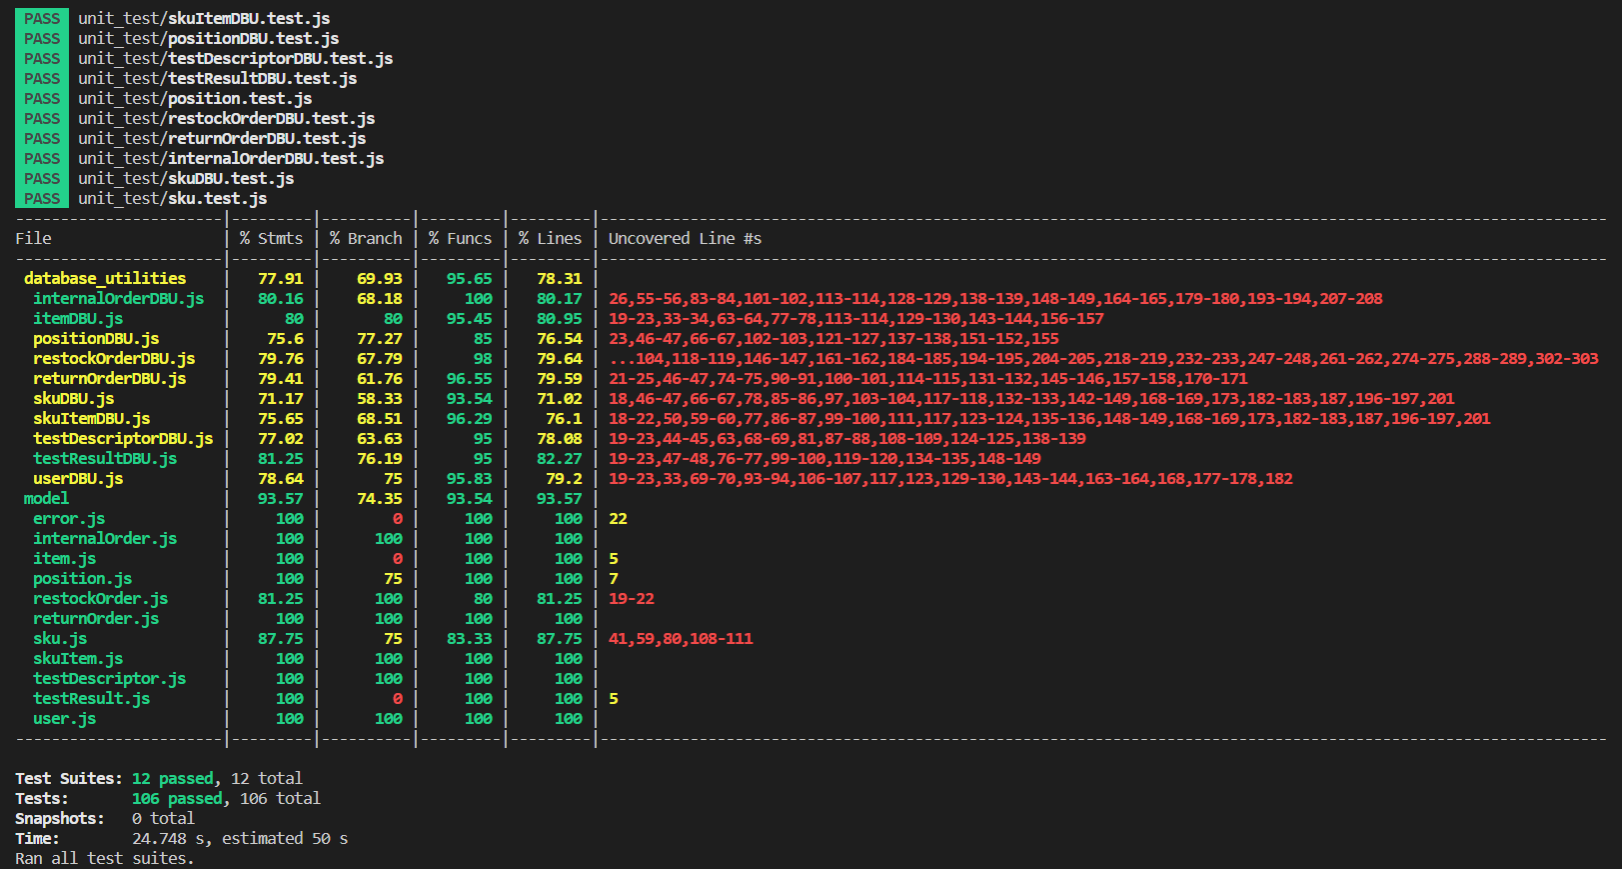
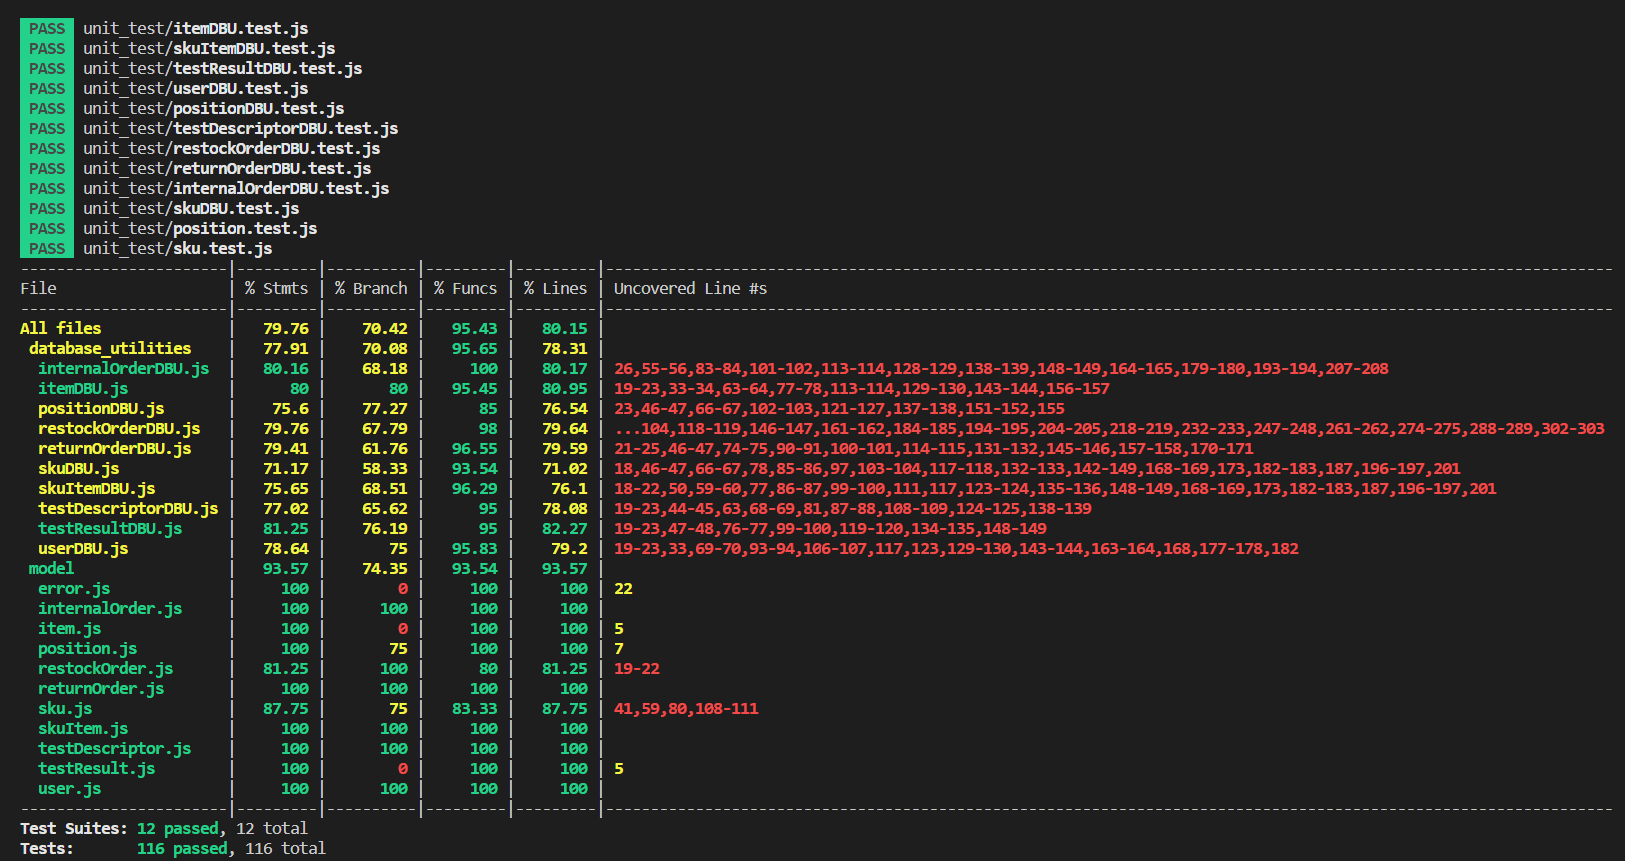
Complete unit testing report

Changed region(s): [[0.0, 0.0, 0.9864, 0.9965]]

diff --git a/code/server/unit_test/skuItemDBU.test.js b/code/server/unit_test/skuItemDBU.test.js
@@ -26,7 +26,6 @@ describe('Load SkuItem ',() => {
     testLoadSkuitem(db);
 })
 
-//ITEM needs to be uploaded to the db by databaseetup like marco did 
 function testLoadSkuitem(db){
     test('Retrieve all SkuItems',async () => {
         var res = await db.loadSKUitem()
@@ -45,11 +44,61 @@ function testLoadSkuitem(db){
         var res = await db.loadSKUitem(undefined, 2);
 
         expect(res.length).to.equal(2);
+    });
+    test('Try the load with both parameters' , async () => {
+        var res = await db.loadSKUitem('123', 2);
+
+        expect(res[0].RFID).to.equal('123');
+        expect(res[0].SKUId).to.equal(1);
+        expect(res[0].Available).to.equal(0);
+        expect(res[0].DateOfStock).to.equal('2022/04/04');
     }); 
     test('Try Clean' , async () => {
         var res = await db.loadSKUitem('123');
 
         expect(res[0].clean(['RFID']).RFID).to.be.undefined;
+    }); 
+}
+
+describe('Load SkuItem - not found ',() => {
+    //at the start
+    beforeAll(async () => {
+        //clear DB
+        await dbSet.resetTable();
+    });
+    //at the end of all tests in this file
+    afterAll(async () => {
+        //clear DB at the end
+        await dbSet.resetTable();
+    });
+
+    const db = new SkuitemDBU('ezwh.db');
+    
+    testLoadSkuitemEmpty(db);
+})
+
+function testLoadSkuitemEmpty(db){
+    test('Retrieve all SkuItems - not found',async () => {
+        var res = await db.loadSKUitem()
+        
+        expect(res.length).to.equal(0);
+    });
+    test('Retrieve SkuItem by rfid - not found' , async () => {
+        var res = await db.loadSKUitem('123');
+
+        expect(res.length).to.equal(0);
+    }); 
+    test('Retrieve SkuItem by SKUid - not found' , async () => {
+        try {
+            await db.loadSKUitem(undefined, 2);
+        } catch (err) {
+            expect(err.message).to.equal("Provided id does not match any SKU");
+        }
+    });
+    test('Try the load with both parameters - not found' , async () => {
+        var res = await db.loadSKUitem('123', 2);
+
+        expect(res.length).to.equal(0);
     }); 
 }
 

diff --git a/code/server/unit_test/testResultDBU.test.js b/code/server/unit_test/testResultDBU.test.js
@@ -2,6 +2,9 @@
 
 const { expect } = require('chai');
 const dbSet = require('./dataBaseSetUp');
+const chai = require('chai');
+const chaiAsPromised = require('chai-as-promised');
+chai.use(chaiAsPromised);
 
 const TestResultDBU = require('../database_utilities/testResultDBU');
 
@@ -25,12 +28,12 @@ describe('Load Test Result', () => {
 });
 
 function testGetTestResult(db) {
-    test('retrive a TestResult bi RFID', async () => {
+    test('retrieve a TestResult bi RFID', async () => {
         var res = await db.loadTestResult(456);
         expect(res.length).to.equal(2); //shoudl return 2 TestResult
     });
 
-    test('retrive a TestResult by RFID and TestDescriptorId', async () => {
+    test('retrieve a TestResult by RFID and TestDescriptorId', async () => {
         var res = await db.loadTestResult(123,1);
 
         expect(res[0].idTestDescriptor).to.equal(1);
@@ -85,6 +88,17 @@ function testUpdateTestResult(db) {
         expect(res[0].idTestDescriptor).to.equal(2);
         expect(res[0].Date).to.equal('2022/04/05');
         expect(res[0].Result).to.equal(true);
+    });
+    test('Update an existing Test Result - testDescriptor not found', async () => {
+        expect(db.updateTestResult(789,2,999,'2022/04/05','Pass')).to.eventually.be.rejected;
+    });
+    test('Update an existing Test Result - RFID not found', async () => {
+        expect(db.updateTestResult('999',2,999,'2022/04/05','Pass')).to.eventually.be.rejected;
+    });
+    test('Update an existing Test Result - testResult not found', async () => {
+        const res = await db.updateTestResult(789,9,2,'2022/04/05','Pass');
+
+        expect(res).to.equal(0);
     });
 }
 

diff --git a/code/server/unit_test/restockOrderDBU.test.js b/code/server/unit_test/restockOrderDBU.test.js
@@ -28,12 +28,12 @@ describe('Load Restock Order', () => {
 });
 
 function testGetRestockOrder(db) {
-    test('retrive all RestockOrder', async () => {
+    test('retrieve all RestockOrder', async () => {
         var res = await db.loadRestockOrder();
         expect(res.length).to.equal(2); //shoudl return 2 RestockOrder
     });
 
-    test('retrive a RestockOrder by Id', async () => {
+    test('retrieve a RestockOrder by Id', async () => {
         var res = await db.loadRestockOrder(1);
 
         expect(res[0].issueDate).to.equal('2022/04/04');
@@ -45,8 +45,12 @@ function testGetRestockOrder(db) {
         expect(res[0].skuItems[0].SKUId).to.equal(1);
         expect(res[0].skuItems[0].rfid).to.equal('123');
     });
+    test('retrieve a RestockOrder by Id - restock order does not exist', async () => {
+        var res = await db.loadRestockOrder(999);
+        expect(res.body).to.equal(undefined);
+    });
 
-    test('retrive RestockOrder by State', async () => {
+    test('retrieve RestockOrder by State', async () => {
         var res = await db.loadRestockOrder(undefined, 'ISSUED');
 
         expect(res[0].issueDate).to.equal('2022/04/04');
@@ -59,7 +63,7 @@ function testGetRestockOrder(db) {
         expect(res[0].skuItems[0].rfid).to.equal('123');
     });
 
-    test('retrive item to return', async () => {
+    test('retrieve item to return', async () => {
         var res = await db.selectReturnItems(1);
 
         expect(res[0].SKUId).to.equal(1);

diff --git a/code/server/unit_test/userDBU.test.js b/code/server/unit_test/userDBU.test.js
@@ -2,6 +2,9 @@
 
 const { expect } = require('chai');
 const dbSet = require('./dataBaseSetUp');
+const chai = require('chai');
+const chaiAsPromised = require('chai-as-promised');
+chai.use(chaiAsPromised);
 
 const userDBU = require('../database_utilities/userDBU');
 
@@ -97,6 +100,10 @@ function testInsertUser(db){
         expect(res[0].email).to.equal('test@ezwh.com');
         expect(res[0].type).to.equal('customer');
     });
+    test('Insert user - already present', async() =>{
+        expect(db.insertUser('test@ezwh.com', 'testName', 'testSurname', '1234', 'customer')).to.eventually.be.rejected;
+
+    });
     test('Insert new role for already registered username', async() =>{
         await db.insertUser('user1@ezwh.com', 'testName', 'testSurname', '1234', 'supplier'); 
 
@@ -107,13 +114,6 @@ function testInsertUser(db){
         expect(res[0].surname).to.equal('testSurname');
         expect(res[0].email).to.equal('user1@ezwh.com');
         expect(res[0].type).to.equal('supplier');
-    });
-    test('user already present', async() =>{
-        try {
-            await db.insertUser('manager1@ezwh.com', 'testName', 'testSurname', '1234', 'manager');
-        } catch(err) {
-            expect(err.message).to.equal('User already exists.');
-        }
     });
 }
 

diff --git a/code/server/database_utilities/testDescriptorDBU.js b/code/server/database_utilities/testDescriptorDBU.js
@@ -95,7 +95,7 @@ class TestDescriptorDBU {
     }
 
 // delete one or more TestDescriptor from the TEST-DESCRIPTORS table given different input. Return number of rows modified
-    async deleteTestDescriptor(testId=undefined) { 
+    async deleteTestDescriptor(testId) { 
         const dependency = await this.#checkDependency(testId);
         if (dependency) {
             // if there is at least 1 dependency

diff --git a/code/server/unit_test/testDescriptorDBU.test.js b/code/server/unit_test/testDescriptorDBU.test.js
@@ -97,7 +97,10 @@ function testDeleteTestDescriptor(db){
             expect(err.message).to.equal("Dependency detected. Delete aborted.");
         }
     });
-
+    test('Delete Test Descriptor - descriptor not found' , async () => {
+        const deleted = await db.deleteTestDescriptor(99);
+        expect(deleted).to.equal(0);
+    });
 }
 
 

diff --git a/UnitTestReport.md b/UnitTestReport.md
@@ -1,10 +1,10 @@
 # Unit Testing Report
 
-Date: 23/05/2022
+Date: 24/05/2022
 
-Version: 1.0
+Version: 1.2
 
-# Contents
+# Contents 
 
 - [Note about unit testing](#note-about-unit-testing)
 - [Black Box Unit Tests](#black-box-unit-tests)
@@ -15,62 +15,119 @@ Since all `model` classes have few to none logic, we never test them explicitly 
 For this reason, we consider as "independent units" - although they are not actually independent - `Position` and all `database_utilities` classes **but** `SkuDBU` and `PositionDBU`.
 
 # Black Box Unit Tests
+We report here the criteria we followed to perform black box testing on `database_utilities` classes (since `model` classes have no logic, as already noticed).  
+Since all `database_utilities` classes have basically the same internal structure (a load, an insert, an update and a delete), we decided to report here a single analysis for each category, for the sake of brevity.  
+In particular, we tried to focus on some special cases, characterized by a slightly more complex logic with respect to the other ones.
 
-    <Define here criteria, predicates and the combination of predicates for each function of each class.
-    Define test cases to cover all equivalence classes and boundary conditions.
-    In the table, report the description of the black box test case and (traceability) the correspondence with the Jest test case writing the 
-    class and method name that contains the test case>
-    <Jest tests  must be in code/server/unit_test  >
+ ### **Class *SkuItemDBU* - method *loadSKUitem***
 
- ### **Class *SKU* - method *constructor***
+**Criteria for method *loadSKUitem*:**
+
+ - RFID
+ - skuId
+ - The requested SKUitems are in the database
+
+**Predicates for method *loadSKUitem*:**
+
+| Criteria                        | Predicate |
+|---------------------------------|-----------|
+| RFID                            | Is undefined   |
+|                                 | Is not undefined   |
+| skuId                           | Is undefined   |
+|                                 | Is not undefined   |
+| Requested SKUitems are in database | Yes |
+|                                            | No  |
+
+**Combination of predicates**:
+
+| RFID | skuId | Requested SKUitems are in database| Valid / Invalid | Description of the test case | Jest test case       |
+|----|----|----|----|-----|-----|
+| Is undefined |  Is undefined | Yes | Valid | T1( ) -> true | `Retrieve all SkuItems` |
+| Is not undefined |  Is undefined | Yes | Valid | T2(existingRFIDinDB, undefined) -> true | `Retrieve SkuItem by rfid` |
+| Is undefined |  Is not undefined | Yes | Valid | T3(undefined, existingSkuIdInDB) -> true | `Retrieve SkuItem by SKUid` |
+| Is not undefined |  Is not undefined | Yes | Valid | T4(existingRFIDinDB, notCare) -> true | `Try the load with both parameters` |
+| Is undefined |  Is undefined | No | Valid | T5( ) -> true | `Retrieve all SkuItems - not found` |
+| Is not undefined |  Is undefined | No | Valid | T6(existingRFIDinDB, undefined) -> true | `Retrieve SkuItem by rfid - not found` |
+| Is undefined |  Is not undefined | No | Invalid | T7(undefined, existingSkuIdInDB) -> false | `Retrieve SkuItem by SKUid - not found` |
+| Is not undefined |  Is not undefined | No | Valid | T8(existingRFIDinDB, notCare) -> true | `Try the load with both parameters - not found` |
+
+Notice that case 4 behaves exactly as case 2: the RFID is more important than the skuId, which in this case is simply ignored.
 
 
+### **Class *UserDBU* - method *insertUser***
 
-**Criteria for method *name*:**
-	
+**Criteria for method *insertUser*:**
 
- - 
- - 
+ - User with unique pair (username, type) in database
 
+**Predicates for method *insertUser*:**
 
+| Criteria                        | Predicate |
+|---------------------------------|-----------|
+| User with unique pair (username, type) is in database         | Yes       |
+|                                 | No        |
 
+**Combination of predicates**:
 
-
-**Predicates for method *name*:**
-
-| Criteria | Predicate |
-| -------- | --------- |
-|          |           |
-|          |           |
-|          |           |
-|          |           |
-
-
+| User with unique pair (username, type) is in database | Valid / Invalid | Description of the test case  | Jest test case            |
+|-------------------------|---------------------------------|-----------------|-------------------------------|
+| Yes | Valid | T1(validUser) -> true |`Insert user`|
+| No | Invalid | T2(invalidUser) -> false |`Insert user - already present`|
 
 
+### **Class *TestResultDBU* - method *updateTestResult***
 
-**Boundaries**:
+**Criteria for method *updateTestResult*:**
 
-| Criteria | Boundary values |
-| -------- | --------------- |
-|          |                 |
-|          |                 |
+ - SKUitem TestResult refers to is in database
+ - TestResult to be modified is in database
+ - TestDescriptor is in database
 
+**Predicates for method *updateTestResult*:**
+
+| Criteria                        | Predicate |
+|---------------------------------|-----------|
+| SKUitem TestResult refers to is in database | Yes |
+| | No |
+| TestResult to be modified is in database | Yes |
+|  | No |
+| TestDescriptor is in database | Yes |
+| | No |
+
+**Combination of predicates**:
+
+| SKUitem TestResult refers to is in database | TestResult to be modified is in database | TestDescriptor is in database | Valid / Invalid | Description of the test case  | Jest test case            |
+|-----------|--------------|----------------|-----------------|-----------------|-------------------------------|
+| Yes | Yes | Yes | Valid | T1(validResult) -> true | `Update an existing Test Result` |
+| Yes | Yes | No | Invalid | T2(invalidResult) -> false | `Update an existing Test Result - testDescriptor not found` |
+| No | No | Not Care | Invalid | T3(invalidResult) -> false | `Update an existing Test Result - RFID not found` |
+| Yes | No | Yes | Valid | T4(validResult) -> true | `Update an existing Test Result - testResult not found` |
+
+### **Class *TestDescriptorDBU* - method *deleteTestDescriptor***
+
+**Criteria for method *deleteTestDescriptor*:**
+
+ - TestDescriptor is in database
+ - No other entries depend on TestDescriptor
+
+
+**Predicates for method *deleteTestDescriptor*:**
+
+| Criteria                        | Predicate |
+|---------------------------------|-----------|
+| TestDescriptor is in database | Yes |
+| | No |
+| No other entries depend on TestDescriptor | Yes |
+|  | No |
 
 
 **Combination of predicates**:
 
-
-| Criteria 1 | Criteria 2 | ... | Valid / Invalid | Description of the test case | Jest test case |
-|-------|-------|-------|-------|-------|-------|
-|||||||
-|||||||
-|||||||
-|||||||
-|||||||
-
-
-
+| TestDescriptor is in database | No other entries depend on TestDescriptor | Valid / Invalid | Description of the test case  | Jest test case            |
+|-----------|--------------|----------------|-----------------|-----------------|
+| Yes | Yes | Valid | T1(validTest) -> true | `Delete Test Descriptor` |
+| Yes | No | Invalid | T2(invalidTest) -> false | `Delete Test Descriptor - dependency detected` |
+| No | Yes | Valid | T3(validTest) -> true | `Delete Test Descriptor - descriptor not found` |
 
 # White Box Unit Tests
 
